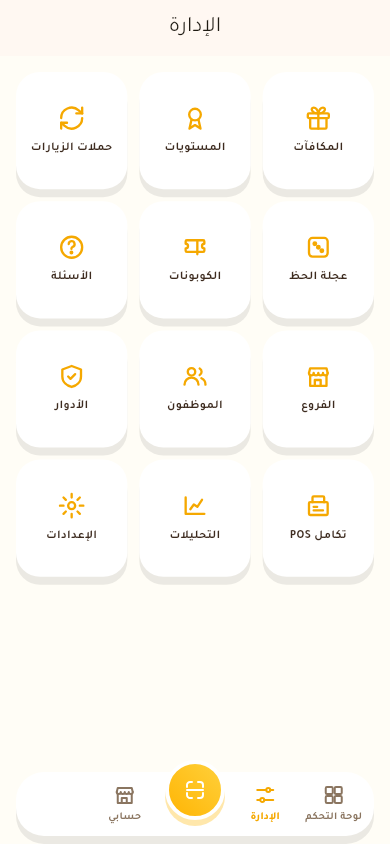
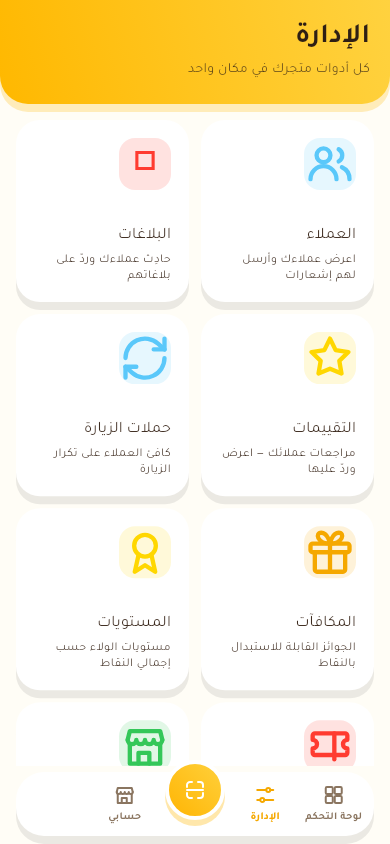
fix(ux-audit): remove duplicate screens and refresh stale facsimiles
Audit review against the current code surfaced inconsistencies:
- Removed 2 duplicate customer screens (Store-Detail / Store-Levels) that
  re-rendered the canonical store-detail tab series with conflicting data;
  renumbered the customer set (41 -> 39) and updated REPORT.md accordingly.
- Rebuilt the merchant Management-Hub facsimile to match the real 20-tile
  hub (customers/reports/reviews/staff-messages/activity-log/referral-program/
  leaderboard/announcements were missing) with the real card layout.
- Customer auth facsimiles already corrected (phone+password login, 6-box
  OTP, register with email/password/terms) to match the live screens.
- Merchant bottom-nav active icons aligned with the real shell.

Claude-Session: https://claude.ai/code/session_01Ek14WxcSgc3Zhr5Crk7LoV

diff --git a/loyalty-platform/apps/customer_app/test/screenshots/merchant_all_test.dart b/loyalty-platform/apps/customer_app/test/screenshots/merchant_all_test.dart
@@ -627,45 +627,80 @@ class _Management extends StatelessWidget {
   const _Management();
   @override
   Widget build(BuildContext context) {
-    final items = [
-      ('المكافآت', Icons.card_giftcard_outlined),
-      ('المستويات', Icons.workspace_premium_outlined),
-      ('حملات الزيارات', Icons.event_repeat_rounded),
-      ('عجلة الحظ', Icons.casino_outlined),
-      ('الكوبونات', Icons.confirmation_num_outlined),
-      ('الأسئلة', Icons.quiz_outlined),
-      ('الفروع', Icons.store_mall_directory_outlined),
-      ('الموظفون', Icons.groups_2_outlined),
-      ('الأدوار', Icons.admin_panel_settings_outlined),
-      ('تكامل POS', Icons.point_of_sale_rounded),
-      ('التحليلات', Icons.insights_rounded),
-      ('الإعدادات', Icons.settings_outlined),
+    // مطابق لـ management_hub_screen.dart (كل البلاطات مع الميزات مفعّلة).
+    final items = <(String, String, IconData, Color)>[
+      ('العملاء', 'اعرض عملاءك وأرسل لهم إشعارات', Icons.groups_2_outlined, AppColors.info),
+      ('البلاغات', 'حادِث عملاءك وردّ على بلاغاتهم', Icons.flag_outlined, AppColors.error),
+      ('التقييمات', 'مراجعات عملائك — اعرض وردّ عليها', Icons.star_rounded, AppColors.goldTier),
+      ('حملات الزيارة', 'كافئ العملاء على تكرار الزيارة', Icons.repeat_rounded, AppColors.info),
+      ('المكافآت', 'الجوائز القابلة للاستبدال بالنقاط', Icons.card_giftcard_rounded, AppColors.primaryDark),
+      ('المستويات', 'مستويات الولاء حسب إجمالي النقاط', Icons.military_tech_rounded, AppColors.goldTier),
+      ('الكوبونات', 'أكواد خصم ومنتجات مجانية', Icons.confirmation_num_outlined, AppColors.error),
+      ('الفروع', 'مواقع المتجر ونطاق إشعار القرب', Icons.store_mall_directory_outlined, AppColors.success),
+      ('الموظفين', 'الكاشير ومديرو الفروع وأدوارهم', Icons.badge_outlined, AppColors.bronze),
+      ('سجل رسائل الموظفين', 'راجع ردود موظّف معيّن على البلاغات', Icons.sms_outlined, AppColors.info),
+      ('سجل النشاط', 'مين عمل كل أكشن في المتجر', Icons.history_rounded, AppColors.primaryDark),
+      ('الأسئلة', 'اجمع آراء عملائك مقابل نقاط', Icons.quiz_outlined, AppColors.info),
+      ('برنامج الإحالة', 'مسار مكافآت لمن يحيل أصدقاءه لمتجرك', Icons.group_add_outlined, AppColors.success),
+      ('عجلة الحظ', 'صمّم عجلة الجوائز ومقاطعها', Icons.casino_rounded, AppColors.goldTier),
+      ('الأدوار والصلاحيات', 'أدوار مخصّصة وصلاحيات الموظفين', Icons.admin_panel_settings_outlined, AppColors.primaryDark),
+      ('التحليلات', 'الزيارات والنقاط ومعدّل العودة', Icons.insights_rounded, AppColors.warning),
+      ('لوحة الصدارة', 'ترتيب عملاء المتجر بالنقاط', Icons.leaderboard_rounded, AppColors.goldTier),
+      ('تكامل POS', 'API لربط نظام الكاشير ومفاتيحه', Icons.point_of_sale_rounded, AppColors.success),
+      ('الإعدادات', 'نطاق النقاط والميزات وحدود الأمان', Icons.settings_outlined, AppColors.textSecondary),
+      ('الإعلانات', 'أرسل إشعارًا لكل عملائك', Icons.campaign_outlined, AppColors.primaryDark),
     ];
     return Scaffold(
       bottomNavigationBar: _nav(2),
-      appBar: AppBar(title: const Text('الإدارة'), centerTitle: true),
-      body: GridView.count(
-        crossAxisCount: 3,
-        padding: const EdgeInsets.all(16),
-        mainAxisSpacing: 12,
-        crossAxisSpacing: 12,
-        childAspectRatio: .95,
-        children: [
-          for (final i in items)
-            AppCard(
-              padding: const EdgeInsets.all(10),
-              child: Column(
-                mainAxisAlignment: MainAxisAlignment.center,
-                children: [
-                  AppIcon(i.$2, size: 28, color: AppColors.primaryDark),
-                  const SizedBox(height: 8),
-                  Text(i.$1,
-                      textAlign: TextAlign.center,
-                      style: const TextStyle(
-                          fontSize: 12, fontWeight: FontWeight.w600)),
-                ],
+      body: CustomScrollView(
+        slivers: [
+          const SliverToBoxAdapter(
+            child: HeroHeader(
+              title: 'الإدارة',
+              subtitle: 'كل أدوات متجرك في مكان واحد',
+            ),
+          ),
+          SliverPadding(
+            padding: const EdgeInsets.all(16),
+            sliver: SliverGrid(
+              gridDelegate: const SliverGridDelegateWithFixedCrossAxisCount(
+                crossAxisCount: 2,
+                mainAxisSpacing: 12,
+                crossAxisSpacing: 12,
+                childAspectRatio: .95,
+              ),
+              delegate: SliverChildBuilderDelegate(
+                (context, idx) {
+                  final t = items[idx];
+                  return AppCard(
+                    child: Column(
+                      crossAxisAlignment: CrossAxisAlignment.start,
+                      children: [
+                        Container(
+                          height: 52,
+                          width: 52,
+                          decoration: BoxDecoration(
+                            color: t.$4.withValues(alpha: .15),
+                            borderRadius: BorderRadius.circular(AppRadii.md),
+                          ),
+                          child: AppIcon(t.$3, color: t.$4, size: 26),
+                        ),
+                        const Spacer(),
+                        Text(t.$1,
+                            style: Theme.of(context).textTheme.titleMedium),
+                        const SizedBox(height: 4),
+                        Text(t.$2,
+                            style: Theme.of(context).textTheme.bodySmall,
+                            maxLines: 2,
+                            overflow: TextOverflow.ellipsis),
+                      ],
+                    ),
+                  );
+                },
+                childCount: items.length,
               ),
             ),
+          ),
         ],
       ),
     );

diff --git a/loyalty-platform/UX-AUDIT/organize.py b/loyalty-platform/UX-AUDIT/organize.py
@@ -24,8 +24,6 @@ CUSTOMER = [
     ('c13_profile', 'Profile'),
     ('c14_edit_profile', 'Edit-Profile'),
     ('c15_settings', 'Settings'),
-    ('c16_store_detail', 'Store-Detail'),
-    ('c16b_store_levels', 'Store-Levels'),
     ('store_tab_1_overview', 'Store-Tab-Overview'),
     ('store_tab_2_visits', 'Store-Tab-Visits'),
     ('store_tab_3_points', 'Store-Tab-Points'),

diff --git a/loyalty-platform/apps/customer_app/test/screenshots/make_sheets.py b/loyalty-platform/apps/customer_app/test/screenshots/make_sheets.py
@@ -55,8 +55,6 @@ CUSTOMER = [
     ('c13_profile', 'الملف الشخصي'),
     ('c14_edit_profile', 'تعديل الملف'),
     ('c15_settings', 'الإعدادات'),
-    ('c16_store_detail', 'صفحة المتجر'),
-    ('c16b_store_levels', 'مستويات المتجر'),
     ('store_tab_1_overview', 'المتجر · نظرة عامة'),
     ('store_tab_2_visits', 'المتجر · الزيارات'),
     ('store_tab_3_points', 'المتجر · النقاط'),

diff --git a/loyalty-platform/UX-AUDIT/Customer-App/REPORT.md b/loyalty-platform/UX-AUDIT/Customer-App/REPORT.md
@@ -195,85 +195,80 @@
   قبل `_updateFlag` (سطور 56-60). ولأن زر التمهيد ميّت (#009) فالإذن لا يُطلب فعليًا وقد
   يعمل `ProximityService.start()` بلا إذن نظام.
 
-## 016 — Store Detail
+## 016–024 — Store Detail (تبويبات)
 - **Page Name:** صفحة المتجر / `StoreDetailScreen` (`stores/store_detail_screen.dart:95`)
-- **Route:** `push` من بطاقة المتجر
-- **Screenshot:** `016-Store-Detail.png`
+- **Route:** `push` من بطاقة المتجر — تفتح على تبويب «نظرة عامة».
 - **Purpose:** تفاصيل المتجر بتبويبات **ديناميكية** حسب `MerchantSettings` (حتى 9 تبويبات).
-- **Available Actions:** انظر تبويبات 018-026 أدناه.
 - **Modals/Sheets:** حوار كود الكوبون (920)؛ ورقة التقييم `_RatingSheet` (1464)؛ حوار حذف التقييم (1413).
 
-## 017 — Store Levels
-- **Page Name:** مستويات المتجر / `_LevelsTab` (`store_detail_screen.dart:727`)
-- **Screenshot:** `017-Store-Levels.png`
-- **Purpose:** رحلة المستويات + بطاقات المزايا (`LevelsJourney`).
+> ملاحظة: أُزيلت لقطتان مكرّرتان (`Store-Detail`/`Store-Levels` كنموذجين قديمين غير
+> متّسقين مع سلسلة التبويبات) — السلسلة أدناه هي التمثيل القانوني للشاشة.
 
-## 018–026 — Store Detail Tabs
 | # | الشاشة | الويدجت | إجراءات/حالات بارزة |
 |---|---|---|---|
-| 018 | نظرة عامة | `_OverviewTab` (203) | StatCards؛ «صدارة المتجر»؛ بطاقة عجلة الحظ؛ بطاقة تقدّم الإحالة؛ مفتاح المشاركة |
-| 019 | الزيارات | `_VisitsTab` (481) | loading/error+retry/empty/data؛ بطاقات أختام؛ سحب للتحديث |
-| 020 | النقاط | `_PointsTab` (515) | «استبدل نقاطك» → `animateTo(3)` |
-| 021 | المكافآت | `_RewardsTab` (571) | شبكة؛ «استبدال» → `RewardDetailScreen`؛ منطق متاح/نفد/غير متاح |
-| 022 | المستويات | `_LevelsTab` (727) | `LevelsJourney` + مزايا |
-| 023 | الكوبونات | `_CouponsTab` (830) | «استخدام» → حوار يعرض الكود للكاشير |
-| 024 | الأسئلة | `_QuestionsTab` (948) | نماذج single/multi/text → نقاط |
-| 025 | التقييمات | `_ReviewsTab` (1163) | ملخّص؛ «قيّم» → `_RatingSheet`؛ تعديل/حذف تقييمي |
-| 026 | السجل | `_HistoryTab` (1595) | معاملات مُرقّمة الصفحات |
+| 016 | نظرة عامة | `_OverviewTab` (203) | StatCards؛ «صدارة المتجر»؛ بطاقة عجلة الحظ؛ بطاقة تقدّم الإحالة؛ مفتاح المشاركة |
+| 017 | الزيارات | `_VisitsTab` (481) | loading/error+retry/empty/data؛ بطاقات أختام؛ سحب للتحديث |
+| 018 | النقاط | `_PointsTab` (515) | «استبدل نقاطك» → `animateTo(3)` |
+| 019 | المكافآت | `_RewardsTab` (571) | شبكة؛ «استبدال» → `RewardDetailScreen`؛ منطق متاح/نفد/غير متاح |
+| 020 | المستويات | `_LevelsTab` (727) | `LevelsJourney` + مزايا |
+| 021 | الكوبونات | `_CouponsTab` (830) | «استخدام» → حوار يعرض الكود للكاشير |
+| 022 | الأسئلة | `_QuestionsTab` (948) | نماذج single/multi/text → نقاط |
+| 023 | التقييمات | `_ReviewsTab` (1163) | ملخّص؛ «قيّم» → `_RatingSheet`؛ تعديل/حذف تقييمي |
+| 024 | السجل | `_HistoryTab` (1595) | معاملات مُرقّمة الصفحات |
 
 - **Forms/Validation:** `_QuestionCard`: single=اختيار، multi=≥1، text=غير فارغ؛ خطأ الخادم في
   `_error`؛ بعد الإجابة «تمت الإجابة ✓». `_RatingSheet`: تقييم ≥1 نجمة («اختر تقييمًا من 1 إلى 5»).
 - **Potential Bugs (مهم):**
-  - **020 «استبدل نقاطك» يثبّت `animateTo(3)`** بينما التبويبات شرطية؛ عند تعطيل الزيارات
-    يصبح الفهرس 3 = المستويات/الكوبونات لا المكافآت → **يقفز للتبويب الخطأ** (سطر 561).
+  - **تبويب النقاط (018) «استبدل نقاطك» يثبّت `animateTo(3)`** بينما التبويبات شرطية؛ عند
+    تعطيل الزيارات يصبح الفهرس 3 = المستويات/الكوبونات لا المكافآت → **يقفز للتبويب الخطأ** (سطر 561).
   - `DateTime.parse(validTo)` للكوبون (900) بلا حماية — يرمي عند تاريخ مشوّه من الخادم.
   - نقرة «عجلة الحظ» تنتقل حتى دون عجلة فعّالة (نقرة بلا أثر مرئي قبل الـEmptyView).
 
-## 027 — Reward Detail
+## 025 — Reward Detail
 - **Page Name:** تفاصيل المكافأة / `RewardDetailScreen` (`rewards/reward_detail_screen.dart:10`)
-- **Screenshot:** `027-Reward-Detail.png`
+- **Screenshot:** `025-Reward-Detail.png`
 - **Available Actions:** «استبدال الآن» → حوار تأكيد → `redeemReward` (مع idempotency) → `ShowToCashierScreen`.
 - **States:** متاح/نفد/«تحتاج X نقطة إضافية».
 - **Potential Bugs:** يعالج `data==null || data['error']` (سطر 58)؛ `mounted` سليم.
 
-## 028 — Show QR To Cashier
+## 026 — Show QR To Cashier
 - **Page Name:** عرض للكاشير / `ShowToCashierScreen` (`rewards/show_to_cashier_screen.dart:12`)
-- **Screenshot:** `028-Show-QR-To-Cashier.png`
+- **Screenshot:** `026-Show-QR-To-Cashier.png`
 - **Purpose:** QR موقَّع دوّار (`r1`) + عدّاد صلاحية + حالة حيّة مؤكَّد/منتهٍ.
 - **States:** pending / confirmed (نجاح → 036) / expired.
 - **Potential Bugs:** `redemption['redemption_id'] as String` (41) و`expires_at` (44) بلا حماية في
   `initState` — يرمي لو غابت من ردّ الـedge function.
 
-## 029 — Lucky Wheel
+## 027 — Lucky Wheel
 - **Page Name:** عجلة الحظ / `WheelScreen` (`wheel/wheel_screen.dart:17`)
-- **Screenshot:** `029-Lucky-Wheel.png`
+- **Screenshot:** `027-Lucky-Wheel.png`
 - **Available Actions:** «لِف الآن» → `_spin` → نتيجة prize/points + تنقّل؛ «هداياي».
 - **States:** loading/error+retry/empty/data.
 - **Potential Bugs:** `wheelRepoProvider.currentUserId!` (74) **فكّ إجباري** — انقطاع الجلسة أثناء اللف = NPE.
 
-## 030 — My Prizes
+## 028 — My Prizes
 - **Page Name:** هداياي / `MyPrizesScreen` (`wheel/my_prizes_screen.dart:21`)
-- **Screenshot:** `030-My-Prizes.png`
+- **Screenshot:** `028-My-Prizes.png`
 - **Available Actions:** قائمة مُرقّمة؛ نقر الجائزة → `PrizeQrScreen`؛ empty «لا توجد هدايا بعد».
 
-## 031 — Prize QR
+## 029 — Prize QR
 - **Page Name:** رمز الجائزة / `PrizeQrScreen` (`wheel/prize_qr_screen.dart:13`)
-- **Screenshot:** `031-Prize-QR.png`
+- **Screenshot:** `029-Prize-QR.png`
 - **Purpose:** QR دوّار (`p1`) + حالة حيّة.
 - **States:** pending / redeemed (نجاح) / expired.
 - **Modals:** عند `delivering` → `_DeliverSheet` (غير قابلة للإغلاق/السحب: موافق/إلغاء/إبلاغ)؛
   مسار الإبلاغ → مسجّل فيديو ثم `_ReportSheet`.
 - **Potential Bugs:** `_tick` يستدعي `setState` كل ثانية (مفحوص `mounted`).
 
-## 032 — Leaderboard
+## 030 — Leaderboard
 - **Page Name:** لوحة الصدارة / `LeaderboardScreen` (`leaderboard/leaderboard_screen.dart:25`)
-- **Screenshot:** `032-Leaderboard.png`
+- **Screenshot:** `030-Leaderboard.png`
 - **Purpose:** صدارة عامة (من الملف) أو لكل متجر (من نظرة عامة).
 - **States:** loading/error+retry/empty/data — تغطية كاملة. يعالج <3 مشاركين.
 
-## 033 — Referral
+## 031 — Referral
 - **Page Name:** دعوة صديق / `ReferralScreen` (`referral/referral_screen.dart:18`)
-- **Screenshot:** `033-Referral.png`
+- **Screenshot:** `031-Referral.png`
 - **Available Actions:** «نسخ» (clipboard) / «مشاركة» (`Share.share`)؛ قائمة الإحالات بشارات
   pending/qualified/rewarded. **ورقة مرتبطة:** `ReferralLinkSheet` (من الرئيسية) — QR للكود +
   ربط بالكود + «امسح كود صديقك» (`ReferralScanScreen`) + «فكّ الارتباط».
@@ -281,31 +276,31 @@
 - **Potential Bugs:** `ReferralScanScreen._onDetect` يستدعي `Navigator.pop` بلا فحص `mounted`
   (186) — خطر منخفض (يحرسه `_done`).
 
-## 034 — Deliver Confirm (Sheet)
+## 032 — Deliver Confirm (Sheet)
 - **Page Name:** تأكيد التسليم / `_DeliverSheet` (داخل `prize_qr_screen.dart`)
-- **Screenshot:** `034-Deliver-Confirm.png`
+- **Screenshot:** `032-Deliver-Confirm.png`
 - **Purpose:** ورقة سفلية إجبارية عند تسليم جائزة: موافق/إلغاء/إبلاغ.
 
-## 035 — Report Form (Sheet)
+## 033 — Report Form (Sheet)
 - **Page Name:** إبلاغ عن مشكلة / `_ReportSheet` (`prize_qr_screen.dart:369`)
-- **Screenshot:** `035-Report-Form.png`
+- **Screenshot:** `033-Report-Form.png`
 - **Forms/Validation:** «أضف رسالة أو فيديو» (واحد على الأقل، سطر 386)؛ يرفق المتجر/الفرع تلقائيًا.
 
-## 036 — Redeemed Success
+## 034 — Redeemed Success
 - **Page Name:** تم الاستلام / `_ResultView` (نجاح)
-- **Screenshot:** `036-Redeemed-Success.png`
+- **Screenshot:** `034-Redeemed-Success.png`
 - **Purpose:** تأكيد بصري لإتمام الاستبدال/التسليم.
 
-## 037 — Report Chat
+## 035 — Report Chat
 - **Page Name:** محادثة البلاغ / `ReportChatScreen` (`reports/report_chat_screen.dart:13`)
-- **Screenshot:** `037-Report-Chat.png`
+- **Screenshot:** `035-Report-Chat.png`
 - **Purpose:** محادثة ثلاثية الأطراف عبر `ReportChatView` المشترك.
 - **Available Actions:** إرسال/تعديل/ردّ على رسالة.
 - **Potential UX Issues:** كل إرسال/تعديل يُعيد جلب كامل الخيط (43-54) — وميض ولا تحديث تفاؤلي.
 
-## 038–041 — Dispute Views (3 أطراف + قفز)
-- **Screenshots:** `038-Dispute-Customer-View.png` · `039-Dispute-Merchant-View.png` ·
-  `040-Dispute-Admin-View.png` · `041-Dispute-Jump-To-Message.png`
+## 036–039 — Dispute Views (3 أطراف + قفز)
+- **Screenshots:** `036-Dispute-Customer-View.png` · `037-Dispute-Merchant-View.png` ·
+  `038-Dispute-Admin-View.png` · `039-Dispute-Jump-To-Message.png`
 - **Purpose:** عرض النزاع من زاوية العميل/التاجر/الأدمن + ميزة «القفز للرسالة الأصلية».
 - **Notes:** مولّدة من `disputes_preview_test.dart`؛ تُظهر اقتباس الرد والإبراز عند القفز.
 

diff --git a/loyalty-platform/UX-AUDIT/README.md b/loyalty-platform/UX-AUDIT/README.md
@@ -40,7 +40,7 @@
   README.md                ← هذا الملف
   organize.py              ← سكربت ترقيم/ترتيب الصور
   Customer-App/
-    001-Splash.png ... 041-Dispute-Jump-To-Message.png
+    001-Splash.png ... 039-Dispute-Jump-To-Message.png
     REPORT.md              ← تقرير شاشة-بشاشة (الغرض/الإجراءات/UX/Bugs)
   Merchant-App/
     001-Splash.png ... 045-Review-Reply.png
@@ -74,7 +74,9 @@
 لقطات `m##`/`c##` **بدائل ساكنة (facsimiles)** تُبنى من نفس design-system؛ تمثّل الشكل بدقّة لكنها لا
 تُظهر تلقائيًا الحالات الديناميكية (فارغ/خطأ/بوّابات fail-open). التقارير تعتمد ملفات الميزات الحقيقية
 كمصدر-حقيقة. أُضيفت لقطات الشاشات الأربع العميقة في تطبيق التاجر (ReportChat، StaffMessages،
-ReferralProgram، SetupChecklist) فأصبح المجموع: العميل 41 شاشة، التاجر 45 شاشة.
+ReferralProgram، SetupChecklist). كما أُزيلت لقطتان مكرّرتان من تطبيق العميل
+(`Store-Detail`/`Store-Levels` كانتا تكرّران سلسلة تبويبات المتجر) وصُحِّحت بلاطات
+شاشة «الإدارة» في تطبيق التاجر لتطابق الكود الحالي. المجموع: العميل 39 شاشة، التاجر 45 شاشة.
 
 ### ما لم يُغطَّ بعد (لطلب لاحق)
 **متغيّرات الحالة المنفصلة** لكل شاشة (تحقّق نموذج خاطئ/صحيح، فارغ، خطأ+إعادة، كل Modal/Dropdown